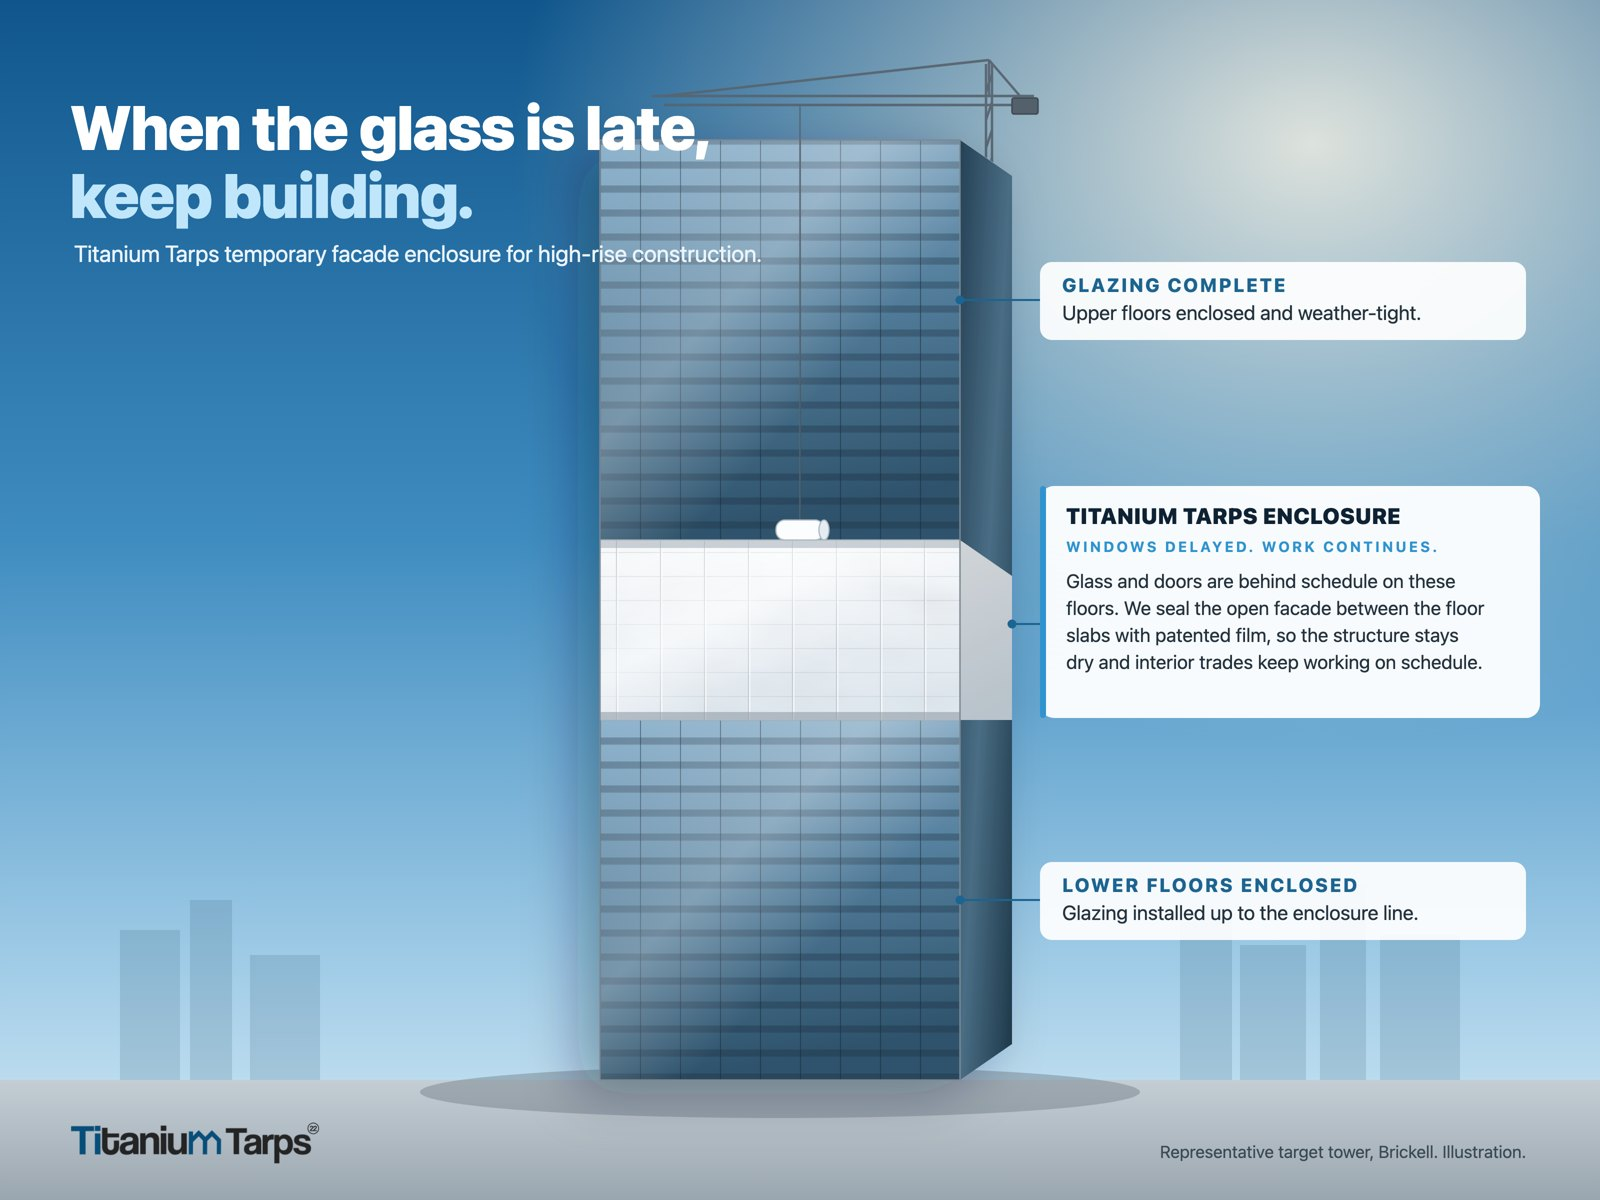
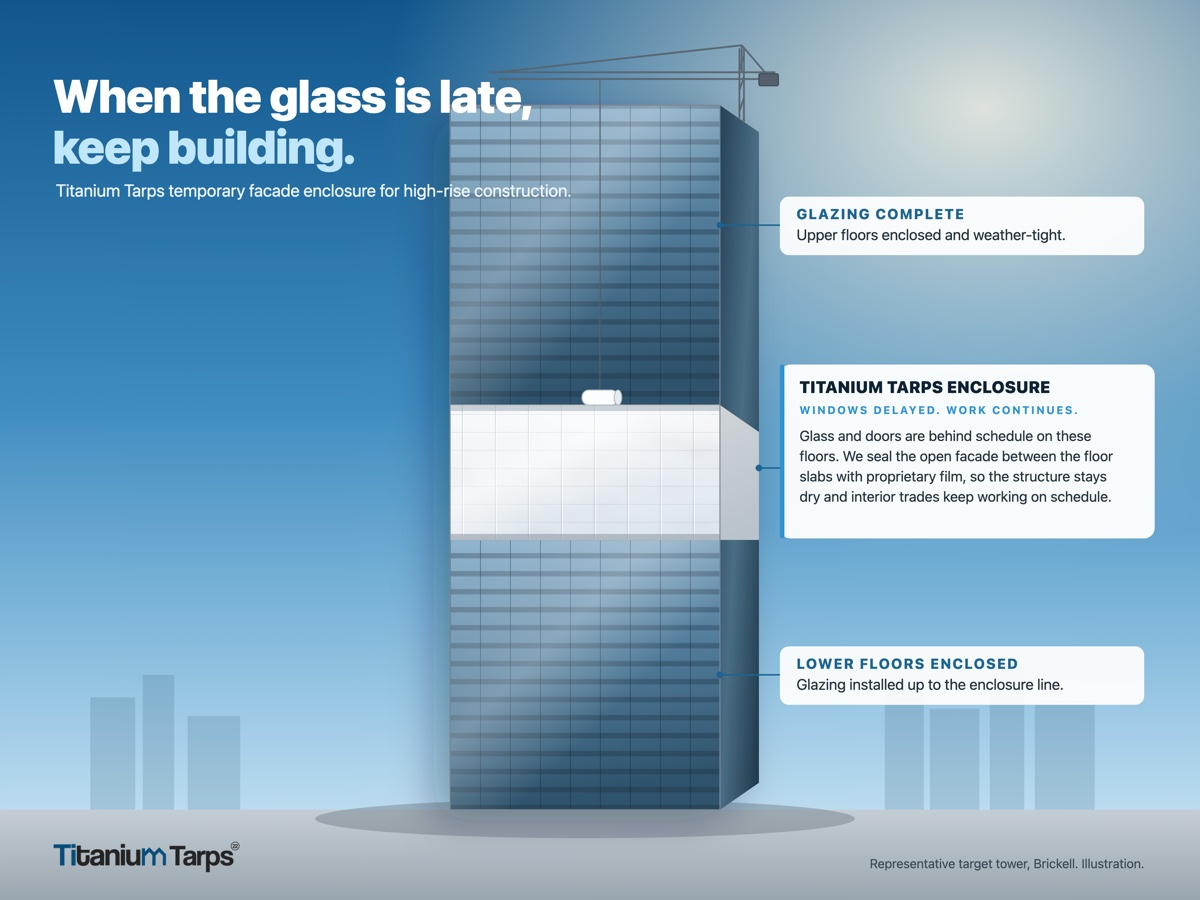
Update contact email, remove patent references for legal review
- Change site email to [email redacted] (page, footer, form handler)
- Remove all patent claims and US patent numbers per attorney guidance
- Reframe the moat as a proprietary, in-house engineered system
- Re-render scenario and Cipriani tower images to drop patented film wording
- Phone confirmed [phone redacted]

diff --git a/index.html b/index.html
@@ -5,10 +5,10 @@
 <meta name="viewport" content="width=device-width, initial-scale=1, viewport-fit=cover">
 <meta name="theme-color" content="#0d1117">
 <title>Titanium Tarps | Weatherproof enclosure for high-rise construction</title>
-<meta name="description" content="Titanium Tarps closes in high-rise construction against South Florida weather. Patented, Class-A fire-rated enclosure film we manufacture in-house and install with Miami-based crews. Protect the schedule. Keep water out and debris in.">
+<meta name="description" content="Titanium Tarps closes in high-rise construction against South Florida weather. A proprietary, Class-A fire-rated enclosure film we manufacture in-house and install with Miami-based crews. Protect the schedule. Keep water out and debris in.">
 
 <meta property="og:title" content="Titanium Tarps. Wrap the tower. Protect the schedule.">
-<meta property="og:description" content="Patented weatherproof enclosure for vertical construction. Manufactured in-house. Mobilized across Miami. Call [phone redacted].">
+<meta property="og:description" content="Proprietary weatherproof enclosure for vertical construction. Manufactured in-house. Mobilized across Miami. Call [phone redacted].">
 <meta property="og:image" content="https://ljbond7.github.io/titaniumtarps-site/assets/img/web/tower-enclosure.jpg">
 <meta property="og:type" content="website">
 
@@ -63,7 +63,7 @@
 
   <div class="hero__content">
     <div class="hero__eyebrow">
-      <span class="dot"></span> Patented enclosure system · Manufactured in-house · Miami-based crews
+      <span class="dot"></span> Proprietary enclosure system · Manufactured in-house · Miami-based crews
     </div>
 
     <h1 class="hero__title">
@@ -72,7 +72,7 @@
     </h1>
 
     <p class="hero__sub">
-      Titanium Tarps closes in high-rise construction against South Florida weather. A patented,
+      Titanium Tarps closes in high-rise construction against South Florida weather. A proprietary,
       Class-A fire-rated enclosure film we manufacture ourselves and install with local crews.
       Keep water out, debris in, and your completion date intact.
     </p>
@@ -83,7 +83,7 @@
     </div>
 
     <ul class="hero__trust">
-      <li><strong>5</strong> issued US patents</li>
+      <li><strong>150+ mph</strong> wind-tested enclosure</li>
       <li><strong>12 mil</strong> Class-A fire-rated film</li>
       <li><strong>In-house</strong> film manufacturing</li>
       <li><strong>Miami-Dade</strong> rapid mobilization</li>
@@ -200,7 +200,7 @@
       <p class="lead">
         Glazing and door packages slip. The structure is topped out, your interior trades are ready,
         and an open facade is all that stands between progress and a weather hold. We seal the open
-        floors between the slabs with our patented film, so the building stays dry and the work keeps moving.
+        floors between the slabs with our proprietary film, so the building stays dry and the work keeps moving.
       </p>
       <ul class="scenario__points">
         <li>Interior trades stay productive on the delayed floors</li>
@@ -238,12 +238,12 @@
         </p>
       </article>
       <article class="wcard">
-        <div class="wcard__kicker">03 / The moat</div>
-        <h3>A patented system.</h3>
+        <div class="wcard__kicker">03 / The system</div>
+        <h3>A proprietary system.</h3>
         <p>
-          Five issued US patents cover our attachment method, self-tapping vents, and furring system.
-          There is no off-brand equivalent. The product, the method, and the performance travel together
-          on every job.
+          Our attachment method, self-tapping vents, and furring system are engineered in-house and
+          installed only by our crews. There is no off-brand equivalent. The product, the method, and
+          the performance travel together on every job.
         </p>
       </article>
     </div>
@@ -304,28 +304,27 @@
 </section>
 
 
-<!-- ========== Section: Patents ========== -->
-<section class="patents" id="patents">
+<!-- ========== Section: The system ========== -->
+<section class="patents" id="system">
   <div class="container">
-    <p class="eyebrow eyebrow--blue eyebrow--center">Patent moat</p>
+    <p class="eyebrow eyebrow--blue eyebrow--center">The system</p>
     <h2 class="h-display h-display--center">
-      Five issued US patents.<br>
-      <span class="text-blue">One way to install Titanium Tarps.</span>
+      One engineered system.<br>
+      <span class="text-blue">No off-brand equivalent.</span>
     </h2>
     <p class="lead lead--center lead--narrow">
-      Every install uses our patented attachment method, our patented self-tapping vents, and our
-      patented furring system. There is no generic version, and there is no off-brand. The product,
-      the method, and the warranty travel together.
+      Titanium Tarps is not a tarp and not a commodity wrap. The film, the attachment method, and the
+      hardware are developed and built in-house as one system, then installed only by our own crews.
+      That is why it performs the same on every tower, and why it cannot be copied off a shelf.
     </p>
 
-    <ul class="patent-grid" aria-label="Issued US patents">
-      <li><span>US</span><strong>10,472,872 B1</strong></li>
-      <li><span>US</span><strong>10,683,666 B1</strong></li>
-      <li><span>US</span><strong>10,851,546 B2</strong></li>
-      <li><span>US</span><strong>11,041,312 B2</strong></li>
-      <li><span>US</span><strong>11,293,184 B1</strong></li>
+    <ul class="patent-grid" aria-label="Proprietary system components">
+      <li><span>01</span><strong>Penetration-free attachment</strong></li>
+      <li><span>02</span><strong>Self-tapping vent design</strong></li>
+      <li><span>03</span><strong>Tensioned furring system</strong></li>
+      <li><span>04</span><strong>In-house film manufacturing</strong></li>
     </ul>
-    <p class="footnote footnote--center">Issued by the USPTO to Structural Wrap, LLC.</p>
+    <p class="footnote footnote--center">Proprietary technology of Structural Wrap, LLC. Installed exclusively by Titanium Tarps crews.</p>
   </div>
 </section>
 
@@ -366,7 +365,7 @@
       <p class="lead text-white-80">
         We are built around the way Miami builds: dozens of towers rising at once, a short window
         before each is closed in, and a storm season that does not wait. Local crews, in-house film,
-        and a patented system put us on your deck while it still matters.
+        and a proprietary system put us on your deck while it still matters.
       </p>
     </div>
     <ul class="coverage__list" aria-label="Coverage areas">
@@ -398,7 +397,7 @@
       </p>
       <ul class="contact__direct">
         <li><span>Call</span><a href="tel:[phone redacted]">[phone redacted]</a></li>
-        <li><span>Email</span><a href="mailto:[email redacted]">[email redacted]</a></li>
+        <li><span>Email</span><a href="mailto:[email redacted]">[email redacted]</a></li>
         <li><span>Operations</span>Marcelo Romero, Director of Operations</li>
       </ul>
     </div>
@@ -451,7 +450,7 @@
     <div class="footer__top">
       <div class="footer__brand">
         <img src="assets/logo/logo-on-dark.png" alt="Titanium Tarps" width="200" height="50">
-        <p>Patented weatherproof enclosure for high-rise construction. Manufactured in-house. Mobilized across Miami.</p>
+        <p>Proprietary weatherproof enclosure for high-rise construction. Manufactured in-house. Mobilized across Miami.</p>
       </div>
       <div class="footer__cols">
         <div>
@@ -467,7 +466,7 @@
           <h4>Company</h4>
           <ul>
             <li><a href="#why">Why us</a></li>
-            <li><a href="#patents">Patents</a></li>
+            <li><a href="#system">The system</a></li>
             <li><a href="#projects">Projects</a></li>
             <li><a href="#contact">Contact</a></li>
           </ul>
@@ -476,7 +475,7 @@
           <h4>Get in touch</h4>
           <ul>
             <li><a href="tel:[phone redacted]">[phone redacted]</a></li>
-            <li><a href="mailto:[email redacted]">[email redacted]</a></li>
+            <li><a href="mailto:[email redacted]">[email redacted]</a></li>
             <li><a href="#contact">Request a site assessment</a></li>
           </ul>
         </div>
@@ -484,11 +483,11 @@
     </div>
 
     <div class="footer__patents">
-      US 10,472,872 B1 · US 10,683,666 B1 · US 10,851,546 B2 · US 11,041,312 B2 · US 11,293,184 B1
+      Class-A fire rated · 150+ mph wind tested · Manufactured in-house · Installed by Miami-based crews
     </div>
 
     <div class="footer__bottom">
-      <span>Titanium Tarps. Patented technology of Structural Wrap, LLC. &copy; 2022 to 2026.</span>
+      <span>Titanium Tarps. Proprietary technology of Structural Wrap, LLC. &copy; 2022 to 2026.</span>
       <span>Miami, Florida, USA</span>
     </div>
   </div>

diff --git a/assets/render/tower-cipriani.html b/assets/render/tower-cipriani.html
@@ -140,7 +140,7 @@
     <rect x="1040" y="476" width="6" height="252" rx="3" fill="#2f93cf"/>
     <text class="h" x="1066" y="514" font-size="22" font-weight="900" letter-spacing="0.5" fill="#0e2233">TITANIUM TARPS ENCLOSURE</text>
     <text class="h" x="1066" y="542" font-size="14" font-weight="700" letter-spacing="2" fill="#2f93cf">80 STORIES. ONE LEVEL EVERY 3 DAYS.</text>
-    <text class="b" x="1066" y="578" font-size="19" fill="#23323d"><tspan x="1066" dy="0">At that pace, a glazing slip strands freshly</tspan><tspan x="1066" dy="27">finished floors in days. We seal the open facade</tspan><tspan x="1066" dy="27">between the slabs with patented film, so fit-out</tspan><tspan x="1066" dy="27">crews keep working dry while the windows catch up.</tspan></text>
+    <text class="b" x="1066" y="578" font-size="19" fill="#23323d"><tspan x="1066" dy="0">At that pace, a glazing slip strands freshly</tspan><tspan x="1066" dy="27">finished floors in days. We seal the open facade</tspan><tspan x="1066" dy="27">between the slabs with proprietary film, so fit-out</tspan><tspan x="1066" dy="27">crews keep working dry while the windows catch up.</tspan></text>
   </g>
 
   <g>

diff --git a/assets/render/tower.html b/assets/render/tower.html
@@ -170,7 +170,7 @@
     <rect x="1040" y="486" width="6" height="232" rx="3" fill="#2f93cf"/>
     <text class="h" x="1066" y="524" font-size="22" font-weight="900" letter-spacing="0.5" fill="#0e2233">TITANIUM TARPS ENCLOSURE</text>
     <text class="h" x="1066" y="552" font-size="14.5" font-weight="700" letter-spacing="2.5" fill="#2f93cf">WINDOWS DELAYED. WORK CONTINUES.</text>
-    <text class="b" x="1066" y="588" font-size="19" fill="#23323d"><tspan x="1066" dy="0">Glass and doors are behind schedule on these</tspan><tspan x="1066" dy="27">floors. We seal the open facade between the floor</tspan><tspan x="1066" dy="27">slabs with patented film, so the structure stays</tspan><tspan x="1066" dy="27">dry and interior trades keep working on schedule.</tspan></text>
+    <text class="b" x="1066" y="588" font-size="19" fill="#23323d"><tspan x="1066" dy="0">Glass and doors are behind schedule on these</tspan><tspan x="1066" dy="27">floors. We seal the open facade between the floor</tspan><tspan x="1066" dy="27">slabs with proprietary film, so the structure stays</tspan><tspan x="1066" dy="27">dry and interior trades keep working on schedule.</tspan></text>
   </g>
 
   <!-- Card C: lower floors -->

diff --git a/js/site.js b/js/site.js
@@ -96,7 +96,7 @@
         note.classList.add("is-ok");
       }
       window.location.href =
-        `mailto:[email redacted]?subject=${encodeURIComponent(subject)}&body=${encodeURIComponent(body)}`;
+        `mailto:[email redacted]?subject=${encodeURIComponent(subject)}&body=${encodeURIComponent(body)}`;
     });
   }
 